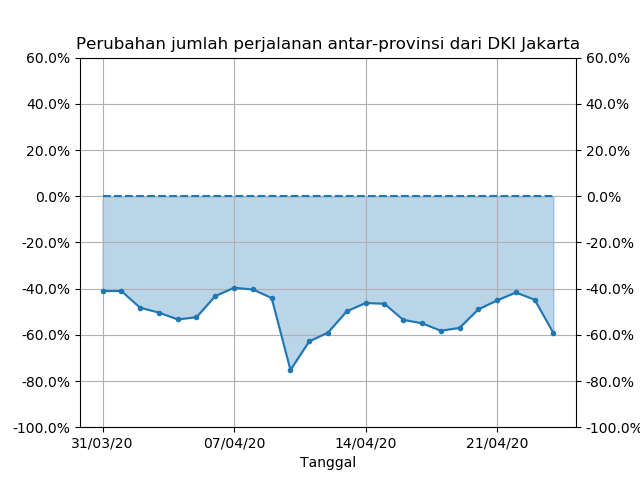
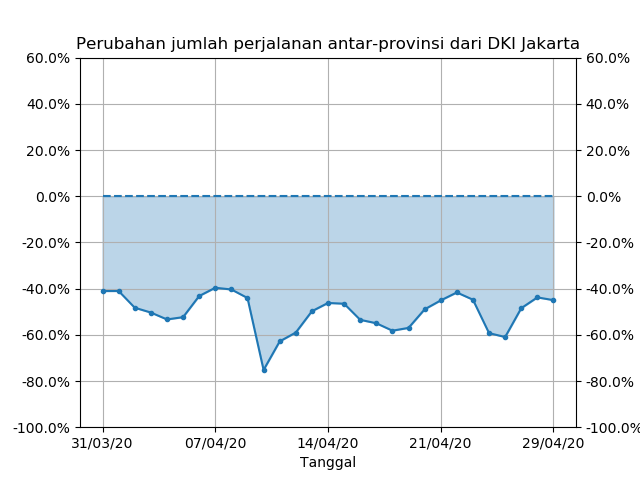
Update mobility

diff --git a/idcovid19-mobility.md b/idcovid19-mobility.md
@@ -6,34 +6,34 @@ permalink: /idcovid19-mobility/
 ---
 
 Sumber data: [Facebook GeoInsight](https://www.facebook.com/geoinsights-portal/) dan [Indonesia GeoJSON](https://github.com/superpikar/indonesia-geojson) <br/>
-Diperbarui pada: 26/04/2020<br/>
+Diperbarui pada: 01/05/2020<br/>
 
 #### DKI Jakarta
 
-Rata-rata 10 hari terakhir: \\(\left(-51.0\pm 6.0\right)\%\\)
+Rata-rata 10 hari terakhir: \\(\left(-49.5\pm 6.6\right)\%\\)
 
 <img title="DKI Jakarta" src="{{ site.baseurl }}/assets/idcovid19-mobility/antar-provinsi_dari_dki_jakarta.png" width="50%"/>
 
 #### Jawa Barat
 
-Rata-rata 10 hari terakhir: \\(\left(-49.6\pm 5.7\right)\%\\)
+Rata-rata 10 hari terakhir: \\(\left(-48.8\pm 7.1\right)\%\\)
 
 <img title="Jawa Barat" src="{{ site.baseurl }}/assets/idcovid19-mobility/antar-provinsi_dari_jawa_barat.png" width="50%"/>
 
 #### Jawa Timur
 
-Rata-rata 10 hari terakhir: \\(\left(-13.4\pm 12.3\right)\%\\)
+Rata-rata 10 hari terakhir: \\(\left(-13.8\pm 12.9\right)\%\\)
 
 <img title="Jawa Timur" src="{{ site.baseurl }}/assets/idcovid19-mobility/antar-provinsi_dari_jawa_timur.png" width="50%"/>
 
 #### Sulawesi Selatan
 
-Rata-rata 10 hari terakhir: \\(\left(-43.6\pm 9.9\right)\%\\)
+Rata-rata 10 hari terakhir: \\(\left(-42.7\pm 7.9\right)\%\\)
 
 <img title="Sulawesi Selatan" src="{{ site.baseurl }}/assets/idcovid19-mobility/antar-provinsi_dari_sulawesi_selatan.png" width="50%"/>
 
 #### Jawa Tengah
 
-Rata-rata 10 hari terakhir: \\(\left(-29.2\pm 8.6\right)\%\\)
+Rata-rata 10 hari terakhir: \\(\left(-29.3\pm 9.9\right)\%\\)
 
 <img title="Jawa Tengah" src="{{ site.baseurl }}/assets/idcovid19-mobility/antar-provinsi_dari_jawa_tengah.png" width="50%"/>
